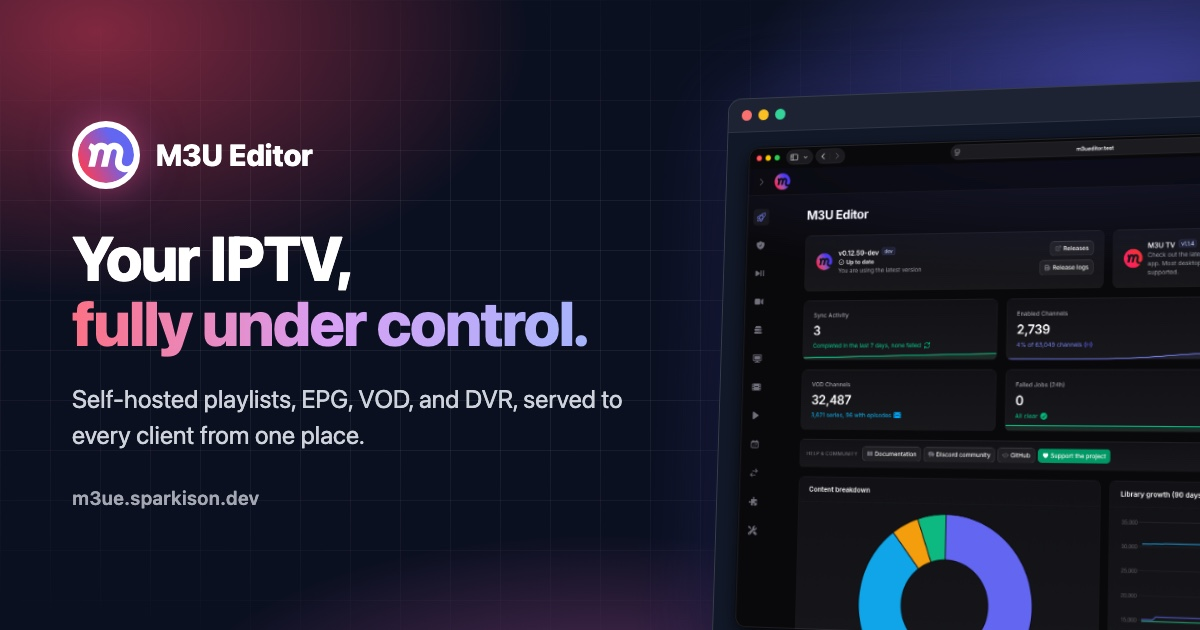
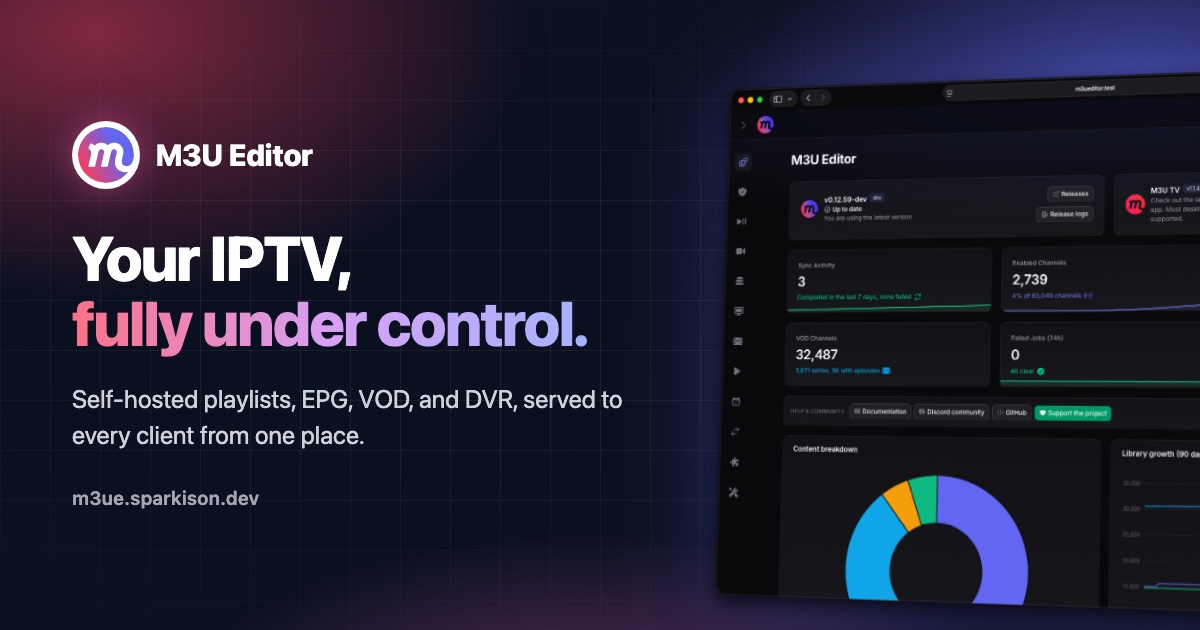
chore: Remove wrapper from floating dashboard screenshot
Looked like a window within a window, remove the wrapper and let the png show directly.

diff --git a/src/pages/index.module.css b/src/pages/index.module.css
@@ -180,21 +180,19 @@
   perspective: 1600px;
 }
 
-.browserFrame {
-  border-radius: 0.9rem;
-  overflow: hidden;
-  background: #111827;
-  border: 1px solid rgba(255, 255, 255, 0.14);
-  box-shadow:
-    0 30px 80px rgba(0, 0, 0, 0.5),
-    0 0 0 1px rgba(255, 255, 255, 0.04),
-    0 0 80px rgba(99, 102, 241, 0.25);
+.heroShot {
+  display: block;
+  width: 100%;
+  height: auto;
+  /* The screenshot is a macOS window capture with its own transparent
+     padding and shadow, so glow along its outline instead of a box */
+  filter: drop-shadow(0 0 40px rgba(99, 102, 241, 0.3));
   transform: rotateY(-8deg) rotateX(4deg);
   transition: transform 0.6s cubic-bezier(.2, .8, .2, 1);
   animation: heroFloat 6s ease-in-out infinite;
 }
 
-.heroVisual:hover .browserFrame {
+.heroVisual:hover .heroShot {
   transform: rotateY(0) rotateX(0);
 }
 
@@ -203,15 +201,6 @@
   50% { translate: 0 -10px; }
 }
 
-.browserBar {
-  display: flex;
-  gap: 6px;
-  padding: 0.6rem 0.8rem;
-  background: rgba(255, 255, 255, 0.05);
-  border-bottom: 1px solid rgba(255, 255, 255, 0.08);
-}
-
-.browserBar span,
 .terminalDots span {
   width: 10px;
   height: 10px;
@@ -219,18 +208,9 @@
   background: rgba(255, 255, 255, 0.2);
 }
 
-.browserBar span:nth-child(1),
 .terminalDots span:nth-child(1) { background: #f87171; }
-.browserBar span:nth-child(2),
 .terminalDots span:nth-child(2) { background: #fbbf24; }
-.browserBar span:nth-child(3),
 .terminalDots span:nth-child(3) { background: #34d399; }
-
-.browserImg {
-  display: block;
-  width: 100%;
-  height: auto;
-}
 
 /* ------------------------------------------------------------------ */
 /* Sections                                                            */
@@ -694,7 +674,7 @@
     gap: 2.5rem;
   }
 
-  .browserFrame {
+  .heroShot {
     transform: none;
   }
 
@@ -728,7 +708,7 @@
 @media (prefers-reduced-motion: reduce) {
   .gridBackground,
   .pixel,
-  .browserFrame,
+  .heroShot,
   .flowArrow > span {
     animation: none;
   }

diff --git a/src/pages/index.js b/src/pages/index.js
@@ -81,12 +81,7 @@ function Hero() {
           </div>
         </div>
         <div className={styles.heroVisual}>
-          <div className={styles.browserFrame}>
-            <div className={styles.browserBar}>
-              <span /><span /><span />
-            </div>
-            <img src={dashboardSrc} alt="M3U Editor dashboard" className={styles.browserImg} />
-          </div>
+          <img src={dashboardSrc} alt="M3U Editor dashboard" className={styles.heroShot} />
         </div>
       </div>
     </header>
